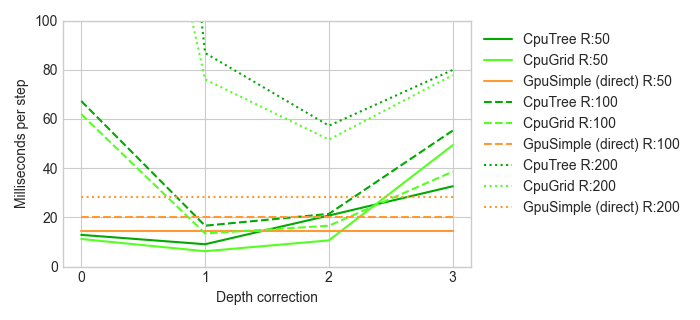
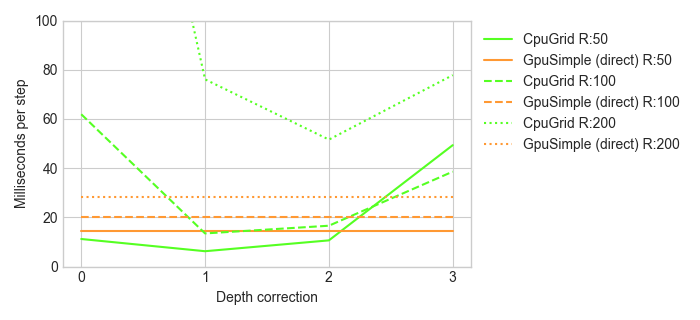
update

diff --git a/tay_plots.py b/tay_plots.py
@@ -5,17 +5,29 @@ import numpy as np
 plt.style.use('seaborn-whitegrid')
 
 
-def _format_and_label(label, radius, all_lines):
-    if label == 'CpuSimple':
-        color = '#444444'
-    elif label == 'CpuTree':
-        color = '#00aa00'
-    elif label == 'CpuGrid':
-        color = '#55ff22'
-    elif label == 'GpuSimple (direct)':
-        color = '#ff9933'
+def _format_and_label(label, radius, all_lines, dataset):
+    if dataset == 0:
+        if label == 'CpuSimple':
+            color = '#444444'
+        elif label == 'CpuTree':
+            color = '#00aa00'
+        elif label == 'CpuGrid':
+            color = '#55ff22'
+        elif label == 'GpuSimple (direct)':
+            color = '#ff9933'
+        else:
+            color = '#ee0000'
     else:
-        color = '#ee0000'
+        if label == 'CpuSimple':
+            color = '#444444'
+        elif label == 'CpuTree':
+            color = '#0022ff'
+        elif label == 'CpuGrid':
+            color = '#55aaff'
+        elif label == 'GpuSimple (direct)':
+            color = '#ff9933'
+        else:
+            color = '#ee0000'
     if all_lines:
         style = '-'
     else:
@@ -36,7 +48,7 @@ def _number_from_token(token, index):
         return float(bits[index])
 
 
-def _create_plots_from_file(in_filename, out_filename, value_index, value_label, plot_see_radii, plot_structures, all_lines):
+def _create_plots_from_file(in_filename, out_filename, value_index, value_label, plot_see_radii, plot_structures, all_lines, dataset):
     with open('../tay/benchmark/%s' % in_filename, 'r') as file:
         text = file.read()
         lines = text.splitlines()
@@ -62,7 +74,7 @@ def _create_plots_from_file(in_filename, out_filename, value_index, value_label,
                 y_vals = [n for _ in x_vals]
             else:
                 y_vals = [_number_from_token(n, value_index) for n in tokens[1:]]
-            c, f, l = _format_and_label(label, radius, all_lines)
+            c, f, l = _format_and_label(label, radius, all_lines, dataset)
             plt.plot(x_vals, y_vals, f, color=c, label=l)
 
 
@@ -73,6 +85,7 @@ def _create_figure(out_filename, in_filenames, value_index, value_label, plot_se
     plt.xlabel("Depth correction")
     plt.ylabel(value_label)
 
+    dataset = 0
     for in_filename in in_filenames:
         _create_plots_from_file(in_filename,
                                 out_filename=out_filename,
@@ -80,7 +93,9 @@ def _create_figure(out_filename, in_filenames, value_index, value_label, plot_se
                                 value_label=value_label,
                                 plot_see_radii=plot_see_radii,
                                 plot_structures=plot_structures,
-                                all_lines=all_lines)
+                                all_lines=all_lines,
+                                dataset=dataset)
+        dataset += 1
 
     if ylim is not None:
         plt.ylim([0, ylim])
@@ -88,15 +103,18 @@ def _create_figure(out_filename, in_filenames, value_index, value_label, plot_se
     plt.gca().xaxis.set_major_locator(mticker.MultipleLocator(1))
     plt.legend(bbox_to_anchor=(1, 1), loc="upper left");
     plt.tight_layout()
-    # plt.show()
-    fig.savefig('%s.png' % out_filename)
+    plt.show()
+    # fig.savefig('%s.png' % out_filename)
 
 
-_create_figure('plot1', ['plot_uniform_runtimes'], 0, 'Milliseconds per step', [0], ['CpuSimple', 'CpuGrid'], None, False)
-_create_figure('plot2', ['plot_uniform_runtimes'], 0, 'Milliseconds per step', [2], ['CpuSimple', 'CpuGrid'], None, True)
-_create_figure('plot3', ['plot_uniform_runtimes'], 0, 'Milliseconds per step', [0, 1, 2], ['CpuTree'], 300, False)
-_create_figure('plot4', ['plot_uniform_runtimes'], 0, 'Milliseconds per step', [0, 1, 2], ['CpuTree', 'CpuGrid'], 100, False)
-_create_figure('plot5', ['plot_uniform_runtimes'], 0, 'Milliseconds per step', [0, 1, 2], ['CpuTree', 'CpuGrid', 'GpuSimple (direct)'], 100, False)
-_create_figure('plot6', ['plot_uniform_runtimes'], 0, 'Milliseconds per step', [0, 1, 2], ['GpuSimple (direct)', 'GpuSimple (indirect)'], None, False)
-_create_figure('plot7', ['plot_uniform_telemetry'], 3, 'Narrow / broad phase ratio (%)', [0, 1, 2], ['CpuSimple', 'CpuTree', 'CpuGrid'], None, False)
-_create_figure('plot8', ['plot_uniform_telemetry'], 0, 'Mean relative deviation (%)', [0, 1, 2], ['CpuSimple', 'CpuTree', 'CpuGrid'], None, False)
+# _create_figure('plot1', ['plot_uniform_runtimes'], 0, 'Milliseconds per step', [0], ['CpuSimple', 'CpuGrid'], None, False)
+# _create_figure('plot2', ['plot_uniform_runtimes'], 0, 'Milliseconds per step', [2], ['CpuSimple', 'CpuGrid'], None, True)
+# _create_figure('plot3', ['plot_uniform_runtimes'], 0, 'Milliseconds per step', [0, 1, 2], ['CpuTree'], 300, False)
+# _create_figure('plot4', ['plot_uniform_runtimes'], 0, 'Milliseconds per step', [0, 1, 2], ['CpuTree', 'CpuGrid'], 100, False)
+# _create_figure('plot5', ['plot_uniform_runtimes'], 0, 'Milliseconds per step', [0, 1, 2], ['CpuGrid', 'GpuSimple (direct)'], 100, False)
+# _create_figure('plot6', ['plot_uniform_runtimes'], 0, 'Milliseconds per step', [0, 1, 2], ['GpuSimple (direct)', 'GpuSimple (indirect)'], None, False)
+# _create_figure('plot7', ['plot_uniform_telemetry'], 3, 'Narrow / broad phase ratio (%)', [0, 1, 2], ['CpuSimple', 'CpuTree', 'CpuGrid'], None, False)
+# _create_figure('plot8', ['plot_uniform_telemetry'], 0, 'Thread unbalancing (%)', [0, 1, 2], ['CpuSimple', 'CpuTree', 'CpuGrid'], None, False)
+
+# _create_figure('plot9', ['plot_uniform_runtimes', 'plot_clump_runtimes'], 0, 'Milliseconds per step', [0], ['CpuGrid', 'CpuTree'], None, False)
+# _create_figure('plot10', ['plot_uniform_telemetry', 'plot_clump_telemetry'], 0, 'Thread unbalancing (%)', [0, 1, 2], ['CpuGrid'], None, False)

diff --git a/tay.md b/tay.md
@@ -90,6 +90,8 @@ Variables in these experiments can be grouped into model variables and system va
 
 So far I only had the chance to run simulations on my ThinkPad T480 with the i5-8250U processor (4 physical and 8 logical processors, base frequency 1.6 Ghz, max. frequency 3.4 GHz (Turbo Boost)) and UHD Graphics 620 (I used Intel's OpenCL SDK for GPU simulations). GPU results are just there to verify that the system works correctly, with consistent simulation results, even when switching between CPU and GPU strucures during simulation runs.
 
+Most results are for uniform distribution of agents moving in random directions inside a fixed cube. Currently the only other distribution is one-clump: 80% of agents uniformly distributed and 20% clumped inside a cube whose side is 5% of the entire space cube's side length.
+
 > Note that the following run-times are not the fastest I can get on my machine. I disabled Turbo Boost to get more consistent results, but with it enabled (which is the default) I get 1.5 - 2 times better run-times.
 
 **Agents**|10000
@@ -121,7 +123,11 @@ Comparing `CpuTree` and `CpuGrid` we can see that grids perform better for all t
 
 ![plot4](/plot4.png)
 
-Finally, when comparing GPU brute-force approach (`GpuSimple`) and CPU space partitioning structures (`CpuTree` and `CpuGrid`) we can see that for smaller interaction radii CPU version is still faster:
+Simulations with uniform (green) perform better than one-clump (blue) distributions because agents in the "clump" are all so close together that they must always interact:
+
+![plot9](/plot9.png)
+
+Finally, when comparing GPU brute-force approach (`GpuSimple`) and a CPU space partitioning structure (`CpuGrid`) we can see that for smaller interaction radii CPU version is still faster:
 
 ![plot5](/plot5.png)
 
@@ -133,10 +139,14 @@ Also an interesting thing to see on GPU is what the effect is when iterating thr
 
 #### Simulation efficiency
 
-Efficiency of a simulation can be measured using two numbers. First number tells us how good our space partitioning is regarding minimizing the number of agent pairs that are rejected at the narrow phase test. The following plot shows the ratio between number of agent pairs that should *actually* interact and number of agent pairs that the structure claims *could* interact (higher is better):
+As mentioned at the beginning, efficiency of a simulation can be measured with three numbers. First number tells us how good our space partitioning is regarding the number of agent pairs that are rejected at the narrow phase test. The following plot shows the ratio between number of agent pairs that should *actually* interact and number of agent pairs that the structure claims *could* interact (higher is better):
 
 ![plot7](/plot7.png)
 
-Second number tells us how well the interaction work is distributed among threads, and is presented in the plot below as a mean relative deviation of the number of interactions executed on each thread vs. what would be the ideal distribution (equal number of interactions on each thread), averaged over all simulation steps (lower is better):
+Third number, or thread unbalancing, tells us how well the interaction work is distributed among threads, and is presented in the plot below as a mean relative deviation of the number of interactions executed on each thread vs. what would be the ideal distribution (equal number of interactions on each thread), averaged over all simulation steps (lower is better):
 
 ![plot8](/plot8.png)
+
+For the uniform distribution (green) thread unbalancing is small and dropping off because many small cells with few agents each are easier to distribute evenly among threads than few large cells with many agents each. For the one-clump distribution (blue) the same effect is visible at larger depth corrections, but at smaller depth corrections and large interaction radii all partitions have the clump of agents as their neighbor. This means the amount of work will be the same for all of them, which makes the balancing easy:
+
+![plot10](/plot10.png)
